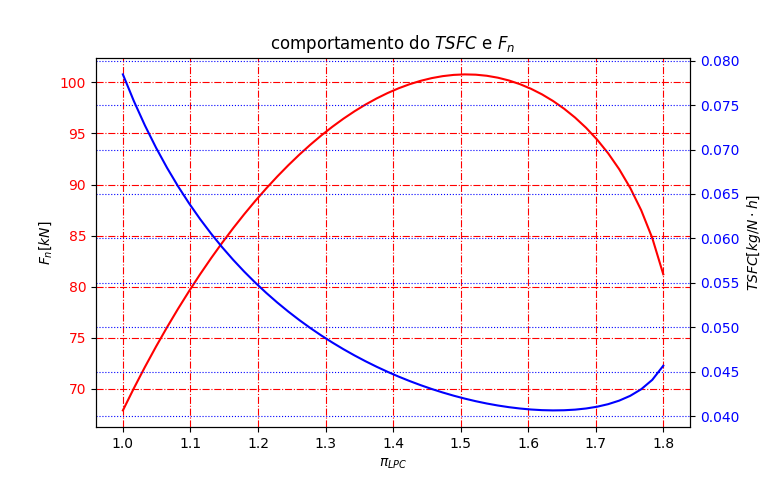
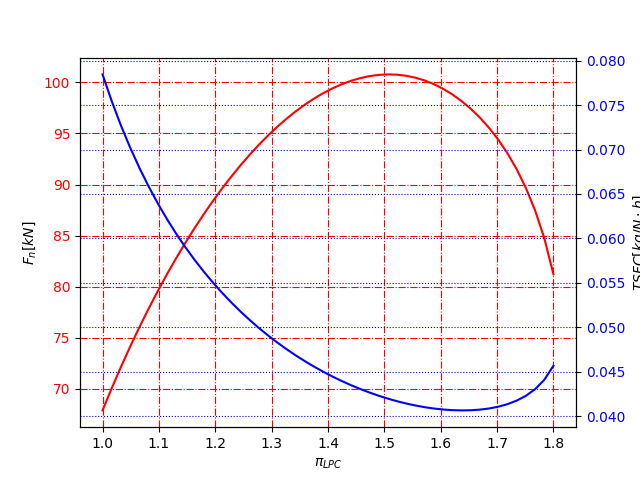
final

diff --git a/main.py b/main.py
@@ -13,39 +13,103 @@ pid, taud, Fnd, TSFCd,fd = en.turbojato(PCI, m0j, picj, T04, Pad, Tad, 0,cp = cp
 print('\nDados TurboJato na decolagem')
 print(f'Fn\t= {Fnd/1000} [kN]')
 print(f'TSFC\t= {TSFCd} [kg/N.h]')
+print(f'Consumo\t= {TSFCd*Fnd} [kg/.h]')
 
 #%% Cruzeiro -------------------------------------------------------------------------------------------------
 pi, tau,Fn,TSFC,f = en.turbojato(PCI, m0j, picj, T04, Pac, Tac, M0, cp = cpc)
 print('\nDados TurboJato em cruzeiro')
 print(f'Fn\t= {Fn/1000} [kN]')
 print(f'TSFC\t= {TSFC} [kg/N.h]')
+print(f'Consumo\t= {TSFC*Fn} [kg/.h]')
 
 #%%
 #                                       PARTE II
 #%% Decolagem - Take off -------------------------------------------------------------------------------------------------
+m_tot   = 100_000
+m_fuel  = m_tot - memp - neng*mmfan 
+W0      = m_tot*g
 
-# Vstall  = np.sqrt(Wmax*R*Tad/(0.5*Pad*1000*Clmax*Aw))
-# Vlo     = 1.2*Vstall 
-# a0      = np.sqrt(k*R*Tad)
-# M0d     = 0.707*Vlo/a0
-# m0_d    = en.f_m0(Pad, Afan, M0, Tad) # kg/s
+v_stall = np.sqrt( W0/(0.5*Clmax*rhod*Aw) )
+V_lo    = 1.2*v_stall
+u0      = 0.707*V_lo
+M_to    = u0/np.sqrt(k*R*Tad)
 
-# _,_,Fnd,TSFCd,f = en.turbojato(PCI, m0_d, pic, T04, Pad, Tad, M0d)
+_,_,Fnd,TSFCd,_ =en.turbojato(PCI, m0j, picj, T04, Pad, Tad, M_to, cp = cpd) 
+TSFCd/=3600
 
-# acel    = (Fnd - 0.02*Wmax)*g/Wmax
-# Sg      = Vlo**2/(2*acel)
-# Dt      = Vlo/(2*acel)
+Fn_tot  = neng*Fnd
+a_med   = g*(Fn_tot-0.02*W0)/W0
+d_to    = V_lo**2/(2*a_med)
+t_to    = V_lo/(2*a_med)
+Cd_to   = Cd(Clmax)
+D_to    = 0.5*rhod*(u0**2)*Cd_to*Aw
+SFC_to  = TSFCd*D_to*t_to
+m_to    = m_tot - SFC_to
 
-# Fn_req  = 0.5*1e3*Pad*0.707*Vlo*Cd(Clmax)*Aw
-# SFC     = TSFCd*Fn_req*Dt
+print("\nDECOLAGEM "+10*'-')
+print(f'Distância de decolagem: {d_to} m')
+print(f'Tempo de decolagem: {t_to} s')
+print(f'Massa após Takeoff: {m_to} kg')
 
-# print('\n'+10*'-'+'Impulso na decolagem'+10*'-')
-# print(f'Fn\t= {Fnd} [N]')
-# print(f'Vlo\t={Vlo} [m/s]')
-# print(f'Mad\t= {M0d}')
-# print(f'acel\t= {acel} [m/s²] ')
-# print(f'Sg\t= {Sg} [m]')
-# print(f'Deltat\t= {Dt} [s]')
+#%% Subida -----------------------------------------------------------------------------------------------------------------
+alphat  = np.deg2rad(10)
+W_up    = m_to*g -SFC_to*g
+L_up    = W_up*np.cos(alphat)
+Cl_up   = 2*L_up/(rhod**Aw*usub**2)
+Cd_up   = Cd(Cl_up)
+D_upx   = 0.5*rhod*(u0**2)*Cd_up*Aw
+D_upy   = 0.5*rhod*(usub**2)*Cd_to*Aw
+t_up    = (hc*1e3/abs( np.sin(alphat) ) )/usub    
+
+Fn_requp=D_upy/Fn_tot
+SFC_up  = TSFCd*Fn_tot*Fn_requp
+m_up    = m_to - SFC_up
+
+print("\nSUBIDA "+10*'-')
+print(f'Tempo de subida: {t_up} s')
+print(f'Massa após subida: {m_up} kg')
+
+#%% Alcance -----------------------------------------------------------------------------------------------------------------
+W_cru   = W_up - SFC_up*g
+Cl_cru  = 2*W_cru/(rhocru*Aw*(usub**2))
+Cd_cru  = Cd(Cl_cru)
+u_cru   = np.sqrt(2*W_cru/(rhocru*Aw*Cl_cru))
+M_cru   = u_cru/(np.sqrt(k*R*Tacru))
+t_cru   = A*1e3/u_cru
+D_cru   = 0.5*rhocru*(u_cru**2)*Cd_cru*Aw
+
+
+_,_,Fn,TSFCcru,_ =en.turbojato(PCI, m0j, picj, Pacru, Tacru, M_cru,cp = cpc) 
+TSFCcru /=3600
+
+Fn_totcru= neng*Fn
+Fn_reqcru= D_cru/Fn_totcru
+SFC_cru = TSFCcru*Fn_totcru*Fn_reqcru*t_cru
+m_cru   = m_up - SFC_cru
+
+print("\nCRUZEIRO "+10*'-')
+print(f"Vel. de cruzeiro   : {ucru*3.6} [km/h]")
+print(f'Mach de cruzeiro   : {M_cru}')
+print(f'Tempo de cruzeiro  : {t_cru/3600} h')
+print(f'Massa após cruzeito: {m_cru} kg')
+#%% Descida -----------------------------------------------------------------------------------------------------------------
+W_do    = W_cru - SFC_cru*g
+L_do    = W_do*np.cos(alphat)
+Cl_do   = 2*W_do/(rhocru*Aw*(udesc**2))
+Cd_do   = Cd(Cl_do)
+D_doy   = 0.5*rhocru*(udesc**2)*Cd_do*Aw
+D_dox   = 0.5*rhocru*(u0**2)*Cd_up*Aw
+Fn_reqdo= D_doy/Fn_tot
+
+t_do    = ( hc*1e3/ np.sin(alphat))/udesc
+SFC_do  = TSFCd*Fn_tot*Fn_reqdo*t_do
+
+m_do    = m_cru - SFC_do
+W_do2   = W_do - SFC_do*g
+
+print("\nDESCIDA "+10*'-')
+print(f'Tempo de descida  : {t_do} s')
+print(f'Massa após descida: {m_do} kg')
 #%% 
 
 """
@@ -57,6 +121,7 @@ pid, taud, Fnd, TSFCd,fd = en.turbofan(B, PCI, m0f, picf, pifan, T04, Pad, Tad, 
 print('\nDados TurboFan na decolagem')
 print(f'Fn\t= {Fnd/1000} [kN]')
 print(f'TSFC\t= {TSFCd} [kg/N.h]')
+print(f'Consumo\t={Fnd*TSFCd} [kg/h]')
 
 #%% Cruzeiro -------------------------------------------------------------------------------------------------
 Fntf   = []
@@ -87,54 +152,101 @@ ax2.tick_params(axis='y', labelcolor='b')
 ax2.grid(color='b', linestyle=':')
 plt.savefig('images/LPC_TSFC_Fn.png')
 plt.title(r'comportamento do $TSFC$ e $F_n$')
-plt.show()
-
-# plt.plot(piLPCx,TSFCtf)
-# plt.xlabel(r'$\pi_{LPC}$')
-# plt.ylabel(r'$TSFC[kg/N\cdot h]$')
-# plt.grid()
-# plt.title(r'Comportamento do $TSFC$ para $\pi_{LPC}$')
-# plt.savefig('images/LPC_TSFC.png')
-# plt.close()
+plt.close()
 
 pi, tau,Fn,TSFC,f = en.turbofan(B, PCI, m0f, picf, pifan,T04, Pac, Tac, M0,cp = cpc)
 print('\nDados TurboFan em cruzeiro')
 print(f'Fn\t= {Fn/1000} [kN]')
 print(f'TSFC\t= {TSFC} [kg/N.h]')
+print(f'Consumo\t={Fn*TSFCd} [kg/h]')
+
 
 
 #%%
 #                                      PARTE II
 #%% Decolagem - Take off -------------------------------------------------------------------------------------------------
-mfuel   = mmax - neng*mmfan - memp
-minit   = mmfan*neng + mfuel 
+m_tot   = 100_000
+m_fuel  = m_tot - memp - neng*mmfan 
+W0      = m_tot*g
 
-Vstall  = np.sqrt(minit*g*R*Tad/(0.5*Pad*1000*Clmax*Aw))
-Vlo     = 1.2*Vstall 
-a0      = np.sqrt(k*R*Tad)
-M0d     = 0.707*Vlo/a0
+v_stall = np.sqrt( W0/(0.5*Clmax*rhod*Aw) )
+V_lo    = 1.2*v_stall
+u0      = 0.707*V_lo
+M_to    = u0/np.sqrt(k*R*Tad)
 
-m0_d    = en.f_m0(Pad, Afan, M0, Tad) # kg/s
+_,_,Fnd,TSFCd,_ =en.turbofan(B, PCI, m0f, picf, pifan, T04, Pad, Tad, M_to, cp = cpd) 
+TSFCd/=3600
 
+Fn_tot  = neng*Fnd
+a_med   = g*(Fn_tot-0.02*W0)/W0
+d_to    = V_lo**2/(2*a_med)
+t_to    = V_lo/(2*a_med)
+Cd_to   = Cd(Clmax)
+D_to    = 0.5*rhod*(u0**2)*Cd_to*Aw
+SFC_to  = TSFCd*D_to*t_to
+m_to    = m_tot - SFC_to
 
-acel    = (Fnd - 0.02*minit*g)/(minit*g)
-Sg      = Vlo**2/(2*acel)
-Dt      = Vlo/(2*acel)
-
-Fn_req  = 0.5*1e3*Pad*0.707*Vlo*Cd(Clmax)*Aw
-SFC     = TSFCd*Fn_req*Dt
-
-mdeco   = minitial - SFC
-
-print('\n'+10*'-'+'Impulso na decolagem'+10*'-')
-print(f'Fn\t= {Fnd} [N]')
-print(f'mfuel\t={mfuel} [kg]')
-print(f'Vlo\t={Vlo} [m/s]')
-print(f'Mad\t= {M0d}')
-print(f'acel\t= {acel} [m/s²] ')
-print(f'Sg\t= {Sg} [m]')
-print(f'Deltat\t= {Dt} [s]')
-print(f'SFC\t={SFC} [kg]')
-print(f'mdeco\t={mdeco} [kg]')
+print("\nDECOLAGEM "+10*'-')
+print(f'Distância de decolagem: {d_to} m')
+print(f'Tempo de decolagem: {t_to} s')
+print(f'Massa após Takeoff: {m_to} kg')
 
 #%% Subida -----------------------------------------------------------------------------------------------------------------
+alphat  = np.deg2rad(10)
+W_up    = m_to*g -SFC_to*g
+L_up    = W_up*np.cos(alphat)
+Cl_up   = 2*L_up/(rhod**Aw*usub**2)
+Cd_up   = Cd(Cl_up)
+D_upx   = 0.5*rhod*(u0**2)*Cd_up*Aw
+D_upy   = 0.5*rhod*(usub**2)*Cd_to*Aw
+t_up    = (hc*1e3/abs( np.sin(alphat) ) )/usub    
+
+Fn_requp=D_upy/Fn_tot
+SFC_up  = TSFCd*Fn_tot*Fn_requp
+m_up    = m_to - SFC_up
+
+print("\nSUBIDA "+10*'-')
+print(f'Tempo de subida: {t_up} s')
+print(f'Massa após subida: {m_up} kg')
+
+#%% Alcance -----------------------------------------------------------------------------------------------------------------
+W_cru   = W_up - SFC_up*g
+Cl_cru  = 2*W_cru/(rhocru*Aw*(usub**2))
+Cd_cru  = Cd(Cl_cru)
+u_cru   = np.sqrt(2*W_cru/(rhocru*Aw*Cl_cru))
+M_cru   = u_cru/(np.sqrt(k*R*Tacru))
+t_cru   = A*1e3/u_cru
+D_cru   = 0.5*rhocru*(u_cru**2)*Cd_cru*Aw
+
+
+_,_,Fn,TSFCcru,_ =en.turbofan(B, PCI, m0f, picf, pifan,T04, Pacru, Tacru, M_cru,cp = cpc) 
+TSFCcru /=3600
+
+Fn_totcru= neng*Fn
+Fn_reqcru= D_cru/Fn_totcru
+SFC_cru = TSFCcru*Fn_totcru*Fn_reqcru*t_cru
+m_cru   = m_up - SFC_cru
+
+print("\nCRUZEIRO "+10*'-')
+print(f"Vel. de cruzeiro   : {ucru*3.6} [km/h]")
+print(f'Mach de cruzeiro   : {M_cru}')
+print(f'Tempo de cruzeiro  : {t_cru/3600} h')
+print(f'Massa após cruzeito: {m_cru} kg')
+#%% Descida -----------------------------------------------------------------------------------------------------------------
+W_do    = W_cru - SFC_cru*g
+L_do    = W_do*np.cos(alphat)
+Cl_do   = 2*W_do/(rhocru*Aw*(udesc**2))
+Cd_do   = Cd(Cl_do)
+D_doy   = 0.5*rhocru*(udesc**2)*Cd_do*Aw
+D_dox   = 0.5*rhocru*(u0**2)*Cd_up*Aw
+Fn_reqdo= D_doy/Fn_tot
+
+t_do    = ( hc*1e3/ np.sin(alphat))/udesc
+SFC_do  = TSFCd*Fn_tot*Fn_reqdo*t_do
+
+m_do    = m_cru - SFC_do
+W_do2   = W_do - SFC_do*g
+
+print("\nDESCIDA "+10*'-')
+print(f'Tempo de descida  : {t_do} s')
+print(f'Massa após descida: {m_do} kg')

diff --git a/inputs.py b/inputs.py
@@ -1,6 +1,6 @@
 import engines as en
 from numpy import pi
-
+import numpy as np
 # Dados atmosféricos -------------------------------------------------------------------------------------------------
 Tac     = -4.83+273.15                  # K     (Temperatura de cruzeiro)
 Tad     = 15   +273.15                  # K     (Temperatura de decolagem)
@@ -11,6 +11,9 @@ cpd     = 1004.08                       # J/kg  (cp decolagem)
 R       = 287.05                        # J/kgK (constante dos gases para o ar)
 k       = 1.4 
 g       = 9.81                          # m/s²  (aceleração da gravidade)
+rhod    = Pad*1e3/(R*Tad)
+rhoc    = Pac*1e3/(R*Tac)
+
 
 # Dados construtivos gerais ------------------------------------------------------------------------------------------
 M0      = 0.85 
@@ -18,9 +21,9 @@ PCI     = 43e6                          # J/kg K
 T04     = 1300                          # K
 
 # Dados construtivos TurboJato ----------------------------------------------------------------------------------------
-m0j     = 17.6 # kg/s
-picj    = 5.33
-mmjato  = 121 # kg
+m0j     = 77    # kg/s
+picj    = 13.33
+mmjato  = 121   # kg
 
 # Dados construtivos TurboFan -----------------------------------------------------------------------------------------
 B       = 5.00
@@ -31,11 +34,15 @@ m0f     = en.f_m0(Pac, Afan, M0, Tac)   # kg/s
 mmfan   = 4273                          # kg
 
 # Dados da missão    -------------------------------------------------------------------------------------------------
+Pacru   = 18.7                          # kPa
+Tacru   = -55 +273.15                   # kPa
+rhocru  = Pac*1e3/(R*Tac)               # kg/m³
 memp    = 70550                         # kg
 mmax    = 10e4                          # kg
 A       = 5700                          # km
 hc      = 12                            # km  
 Sgmax   = 2000                          # m
+ucru    = M0*np.sqrt(k*R*Tacru)         # m/s
 usub    = 600/3.6                       # m/s
 udesc   = 500/3.6                       # m/s
 

diff --git a/graficos.py b/graficos.py
@@ -1,0 +1,28 @@
+from platform import machine
+import matplotlib.pyplot as plt
+import engines as en
+from inputs import *
+import numpy as np
+
+cl          = np.linspace(-2.1,2.1)
+cd          = Cd(cl)
+plt.plot(cd, cl)
+plt.xlabel('Cd')
+plt.ylabel('Cl')
+plt.grid()
+plt.show()
+
+vec_fn      = []
+vec_tsfc    = []
+mach        = []
+for i in np.linspace(0,1):
+    _,_, fn_tf, tsfc_tf, _ = en.turbofan(B, PCI, m0f, picf, pifan, T04, 73.8, 273.15-55, i)
+    vec_fn.append(fn_tf/1000)
+    vec_tsfc.append(tsfc_tf)
+    mach.append(i)
+
+vec_fn   = np.array(vec_fn)
+vec_tsfc = np.array(vec_tsfc)
+plt.plot(mach, vec_fn)
+#plt.plot(mach, vec_fn)
+plt.show()
